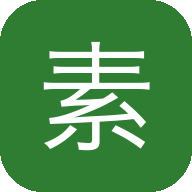
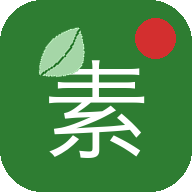
美化 app 圖示、加 README hero 圖、Capacitor 上架腳手架、design.md
- icons：綠底＋尖頭葉＋白「素」＋紅日之丸（扣「日本×素食」）；192/512/maskable/180
- README：加品牌 hero 圖(docs/hero.png)＋顯眼 live Demo 連結
- app-shell/：Capacitor 殼(capacitor.config/package.json/sync-web.sh)＋BUILD.md 上架指南
  (內容打包 webDir=www、避 Apple 4.2；node_modules/ios/android/www 已 gitignore)
- design.md：架構/資料模型/核心系統/「想改X動Y」速查/踩坑清單
- sw.js VERSION→v2(換圖示後讓 SW 重新快取)

Changed region(s): [[0.1875, 0.0938, 0.9375, 0.8438]]

diff --git a/sw.js b/sw.js
@@ -5,7 +5,7 @@
    - 其餘(CSV、外部連結) → network-first，失敗才回快取。
    ※ 完整離線地圖圖磚不保證，只有先前載入過的區塊會被快取（同 HappyCow Pro 的限制）。
    改版時把 VERSION 加一，舊快取會自動清掉。 */
-const VERSION = 'findveg-v1';
+const VERSION = 'findveg-v2';
 const SHELL_CACHE = 'shell-' + VERSION;
 const RUNTIME_CACHE = 'runtime-' + VERSION;
 

diff --git a/design.md b/design.md
@@ -1,0 +1,72 @@
+# design.md — 日本找素 FindVeg JP 架構與維護總覽
+
+> 這份是「**app 怎麼組起來**」的技術地圖（給維護者快速建立心智模型）。
+> 「**怎麼蒐集/新增/維護店家**」的流程在 [`finding_vegan_in_japan.md`](finding_vegan_in_japan.md)（SOP）；上架 app 商店在 [`app-shell/BUILD.md`](app-shell/BUILD.md)。
+
+## 1. 一句話架構
+**單一 `index.html`**（純前端 Leaflet 地圖 + 全部店家資料內嵌在一段 `<script>`）＝ app 本體；無 build、無後端。GitHub Actions 把 repo 根目錄直接部署到 GitHub Pages。PWA（manifest + service worker）讓它可安裝、離線。
+
+## 2. 檔案地圖
+| 檔案 | 角色 |
+|---|---|
+| `index.html` | **app 本體**：HTML/CSS + 一段含全部資料與邏輯的 `<script>`（唯一要編輯資料的地方） |
+| `images/NNN.jpg` | 店家照片，`NNN`=店家 id |
+| `素食溝通卡.html`／`.png` | 附屬頁：蛋奶素溝通卡（`index.html` header 有連結） |
+| `manifest.json`／`sw.js`／`icons/` | PWA：安裝設定／離線快取／app 圖示 |
+| `vegan_japan_places.csv` | 由 `make_csv.py` 從 `index.html` 匯出（給 Google My Maps；header「下載 CSV」） |
+| `make_csv.py` | 解析 `index.html` 的資料表 → 產 CSV（**改資料後要重跑**） |
+| `maintenance_scan.py` | 掃店家連結/照片、偵測疑似歇業/死圖（維護 Tier 0，零 LLM） |
+| `.github/workflows/pages.yml` | GitHub Actions：push 到 main 就部署 Pages |
+| `app-shell/` | Capacitor 打包成 iOS/Android app 的腳手架（不影響網頁） |
+
+## 3. `index.html` 內的資料模型（都在那段 `<script>`）
+一個主陣列 + 四個 id-keyed 側表（新店只 append，側表用 id 對應）：
+- **`restaurants[]`**：主資料，一物件一店。欄位：`id, rank, group, region, name, nameJa, type, tags[], area, address, lat, lng, hours, dishes, notes, flag, hcStars, gStars, gmap, ghours, hcUrl, phone`。
+- **`photos{}`**：`id → 圖片網址`（HappyCow 熱連 或 `images/NNN.jpg`）。
+- **`PRICES{}`**：`id → 每人價位字串`。
+- **`CLOSED{}`**：`id → 'YYYY-MM'`（軟下架：歇業查證年月）。
+- **`CHECKED{}`**：`id → 'YYYY-MM-DD'`（逐店複查日期覆蓋）。
+
+> ⚠ 這四個側表 **id 是「弱參照」**：店歇業硬刪只刪 `restaurants[]` 物件，側表留孤兒無妨。新店永遠續編最大 id，**不重用空號**。
+
+## 4. 核心系統（都是函式，改行為找這些）
+| 系統 | 關鍵函式/變數 | 說明 |
+|---|---|---|
+| 地區篩選 | `activeRegion`、`filterRegion()`、`getFiltered()` | `region` 值 12 種；`getFiltered` 用 `活躍地區 && 篩選 && 搜尋`，**通用吃任何 region 字串** |
+| marker 顏色 | `makeIcon()`、`iconTop/iconSocial/…/iconClosed`、group→icon 三元 | 依 `group` 上色；歇業用灰 `iconClosed` |
+| ✅/❓ badge | `certainVeg()`、`vegBadge()`、`CERTAIN_OVERRIDE`、`ASK_OVERRIDE` | 依 `type` 用詞正則判定；例外用兩個 override set |
+| 軟下架 | `CLOSED`、`isClosed()`、`closedBadge()`；`getFiltered` 的 `activeFilter==='closed'` 分支 | 預設隱藏、只在「⛔ 已歇業」篩選出現；灰底＋刪除線 CSS `.card-closed` |
+| 核實日期 | `checkedDate(id, region)`、`CHECKED`、`CHECK_OVERRIDE`、`SHINSAIBASHI_RECHECK` | 順序：`CHECKED[id]` → 特例 → region → id 區間 |
+| 百貨快篩 | `getFiltered` 的 `activeFilter==='depa'` id 白名單 | 加百貨店要擴白名單 |
+| 找附近 | `nearbyCenter`、`haversine()`、`updateView()`、Geolocation/Nominatim | 需 HTTPS/localhost |
+| 家數統計 | header `#total-badge`、`#count-label` | 動態＝`restaurants.length` 扣掉 `CLOSED` |
+
+## 5. PWA
+- `manifest.json`：`display:standalone`、`theme_color:#2E7D32`、icons 192/512/maskable。
+- `sw.js`：app shell（index.html/manifest/icons/溝通卡/Leaflet CDN）install 時 precache；`images/`・HappyCow・OSM 圖磚 runtime cache-first；其餘 network-first。**改版把 `VERSION` 加一**（自動清舊快取）。
+- `index.html <head>` 有 manifest/theme-color/apple-touch-icon；`</body>` 前註冊 SW。
+
+## 6. 建置/部署管線
+```
+編輯 index.html → python3 make_csv.py(產CSV) → node --check(語法) → 瀏覽器實測
+   → git push main → GitHub Actions(pages.yml) 自動部署 → https://swchen44.github.io/findveg-jp/
+```
+維護（增量更新/下架/複查）詳見 SOP §10 與 `maintenance_scan.py`。
+
+## 7. 「我想改 X → 動 Y」速查
+| 想做 | 改哪裡 |
+|---|---|
+| 新增店家 | `index.html`：append `restaurants[]`＋補 `photos`/`PRICES`；跑 `make_csv.py` |
+| 新增一個地區(macro-region) | 見 SOP §4.5（篩選鈕＋checkedDate＋make_csv regionmap/checked，共 5 處） |
+| 標某店歇業 | `CLOSED` 加 `id:'YYYY-MM'` → 跑 `make_csv.py` |
+| 更新某店複查日 | `CHECKED` 加/改 `id:'YYYY-MM-DD'` |
+| 改 badge 判定 | `certainVeg()` 正則 或 `CERTAIN_OVERRIDE`/`ASK_OVERRIDE` |
+| 換 app 圖示 | 重產 `icons/*.png`（見 git 歷史的 Pillow 腳本），改 `manifest.json`/`sw.js` `VERSION` |
+| 上架商店 | `app-shell/BUILD.md` |
+
+## 8. 踩過的坑（改 code 前必看）
+1. **`CLOSED`/`isClosed` 必須定義在 `restaurants.forEach`(建 marker) 之前** → 否則 marker 迴圈呼叫 `isClosed` 踩 `const` TDZ（`Cannot access 'CLOSED' before initialization`），**整個 script 中斷、全頁壞掉**。改完務必看瀏覽器 console 有無 exception。
+2. **`make_csv.py`/`maintenance_scan.py` 抓「含 `const restaurants` 的 `<script>`」**，不是 `[-1]`（尾端有 SW 註冊那段 `<script>`，用 `[-1]` 會抓錯）。
+3. **側表註解別寫 `數字:'值'` 樣式**（如 `// 範例 253:'2026-08'`）→ make_csv 的 regex 會誤當條目；已用 `_nocomment()` 去註解防呆，仍以 `<id>` 佔位為宜。
+4. **照片下載**：Tabelog 裸圖網址無 token 會下載成文字檔；要從店頁 `<meta og:image>` 抓帶 token 版、JP 版網址。詳見 SOP §3。
+5. 改資料**一定要重跑 `make_csv.py`** 讓 CSV 同步，否則「下載 CSV／My Maps」與地圖不一致。

diff --git a/app-shell/BUILD.md b/app-shell/BUILD.md
@@ -1,0 +1,36 @@
+# 上架 App Store / Google Play 指南（Capacitor WebView 殼）
+
+把 `findveg-jp` 這個 PWA 包成 iOS/Android 原生 app 送商店。**這是「準備好、之後要送審時才做」的腳手架**——實際建置與送審需要你自己的開發者帳號與 Xcode/Android Studio。
+
+> 先評估：現在的 **PWA 已能「加到主畫面」離線用**，成本 0。只有當你想「在 App Store/Play 商店被搜尋到」時才需要這步（Apple 開發者 **US$99/年**、Google Play **US$25 一次**）。
+
+## 前置需求
+- Node.js 18+（`node -v`）
+- **iOS**：macOS + Xcode + Apple Developer 帳號（$99/年）
+- **Android**：Android Studio + Google Play Console 帳號（$25 一次）
+
+## 步驟
+```bash
+cd app-shell
+npm install                 # 裝 Capacitor
+npm run add:ios             # 產生 ios/ 原生專案（需 macOS+Xcode）
+npm run add:android         # 產生 android/ 原生專案
+# 之後每次網頁有更新：
+npm run sync                # 重新複製 www/ 並 cap sync
+npm run open:ios            # 用 Xcode 開 → Product > Archive → 上傳 App Store Connect
+npm run open:android        # 用 Android Studio 開 → Build > Generate Signed Bundle (.aab) → 上傳 Play Console
+```
+`sync-web.sh` 會把上層的 `index.html`／`images/`／`icons/`／`sw.js`／`manifest.json`／溝通卡／CSV 複製進 `www/`（Capacitor 打包的內容）。
+
+## 送審重點 / 常見坑
+- **⚠ Apple 4.2「最低功能」駁回**：純把網頁包起來、無原生價值的 app 常被拒。降風險做法：
+  - **內容打包在 app 內**（本專案已用 `webDir: www` 打包，不是遠端載入）——比 `server.url` 遠端殼安全。
+  - 加一點原生能力：離線可用（已有 SW）、原生**定位**（`@capacitor/geolocation`）、原生**分享**（`@capacitor/share`）、狀態列/啟動畫面。
+  - 商店描述強調「策展×蛋奶素查證×柴魚陷阱」的獨特價值，不要只寫「餐廳地圖」。
+- **App 圖示/啟動畫面**：用 `icons/icon-512.png`；可用 `@capacitor/assets` 自動生成各尺寸。
+- **隱私**：定位權限要在 `Info.plist`（iOS）寫 `NSLocationWhenInUseUsageDescription`；填 App Privacy 問卷（本 app 不蒐集個資，資料為公開餐廳資訊）。
+- **照片版權**：`images/` 內部分照片下載自 Tabelog/官網，商店版建議改為**熱連 HappyCow CDN**或**只保留自攝/授權照片**，降低審核與版權風險（見主 README）。
+- **appId**：目前 `io.github.swchen44.findvegjp`，可改成你要的 bundle id（要跟 Apple/Google 後台一致）。
+
+## 這個 app-shell 資料夾不影響網頁部署
+`app-shell/` 只是打包工具；GitHub Pages 部署的是 repo 根目錄的網頁，兩者互不干擾。`node_modules/`、`ios/`、`android/`、`www/` 都已 gitignore。

diff --git a/README.md b/README.md
@@ -1,8 +1,13 @@
 # 日本找素 FindVeg JP 🌿
 
+![日本找素 FindVeg JP](docs/hero.png)
+
 **繁中 × 訪日 × 蛋奶素**的日本素食導覽地圖 App（PWA）。全日本 **460 家**素食/蔬食友善店家，為**蛋奶素（ovo-lacto）**旅客量身整理，並針對日式料理的**隱藏葷料陷阱**（柴魚高湯かつおだし、豚骨、いりこ、味醂、五辛）逐店提醒——這是主流 App（HappyCow/Vegewel）沒做的細分。
 
-👉 **線上使用**：<https://swchen44.github.io/findveg-jp/>（可「加到主畫面」變成離線 App）
+## 👉 [▶ 開啟 App（線上 Demo）](https://swchen44.github.io/findveg-jp/)
+手機開啟後可「加到主畫面」變成離線 App（iOS Safari：分享→加入主畫面；Android Chrome：選單→安裝應用程式）。
+
+> 上圖為品牌主視覺；**實機畫面**（全日本地圖＋店家卡片）請點上方 live 連結。歡迎截圖 PR 到 `docs/`。
 
 ## 特色
 - **12 地區篩選**：關西（大阪/京都/奈良/神戶）・東京圈・北海道・九州・中部・廣島・東北・四國・沖繩。
@@ -23,7 +28,9 @@
 | `manifest.json` / `sw.js` / `icons/` | PWA 設定、service worker、app 圖示 |
 | `make_csv.py` | 從 index.html 產生 CSV |
 | `maintenance_scan.py` | 偵測疑似歇業/移轉與死圖（維護用，零 LLM） |
+| `design.md` | **架構/維護總覽**：資料模型、核心系統、「想改 X 動 Y」速查、踩坑清單 |
 | `finding_vegan_in_japan.md` | 完整 SOP：如何蒐集/寫入/驗證/維護（含 §10 維護心法） |
+| `app-shell/` | Capacitor 腳手架＋`BUILD.md`：之後上架 App Store/Play 用（不影響網頁） |
 
 ## 本機執行 / 維護
 ```bash
